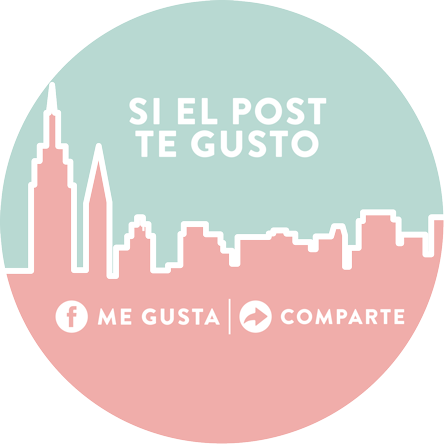
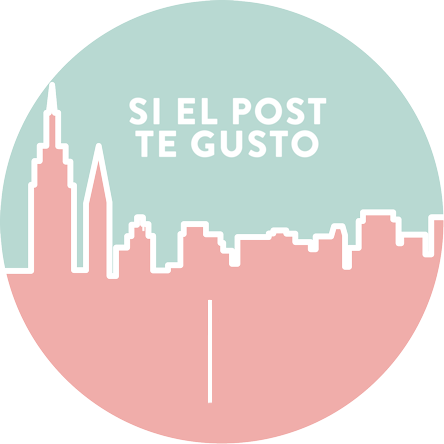
add facebook plugins

Changed region(s): [[0.3221, 0.6734, 0.9077, 0.9077], [0.1171, 0.6734, 0.2928, 0.7613]]

diff --git a/content/themes/moixx/assets/css/style.css b/content/themes/moixx/assets/css/style.css
@@ -743,4 +743,14 @@ body {
   margin: auto;
   max-width: 40%; }
 
+.fb-share-button {
+  right: 2em;
+  position: absolute !important;
+  bottom: 2em; }
+
+.fb-like {
+  left: 2em;
+  position: absolute !important;
+  bottom: 2em; }
+
 /*# sourceMappingURL=style.css.map */

diff --git a/content/themes/moixx/assets/css/style.sass b/content/themes/moixx/assets/css/style.sass
@@ -563,6 +563,16 @@ body
     margin: auto
     max-width: 40%
 
+.fb-share-button
+  right: 2em
+  position: absolute !important
+  bottom: 2em
+
+.fb-like
+  left: 2em
+  position: absolute !important
+  bottom: 2em
+
 
 
 
